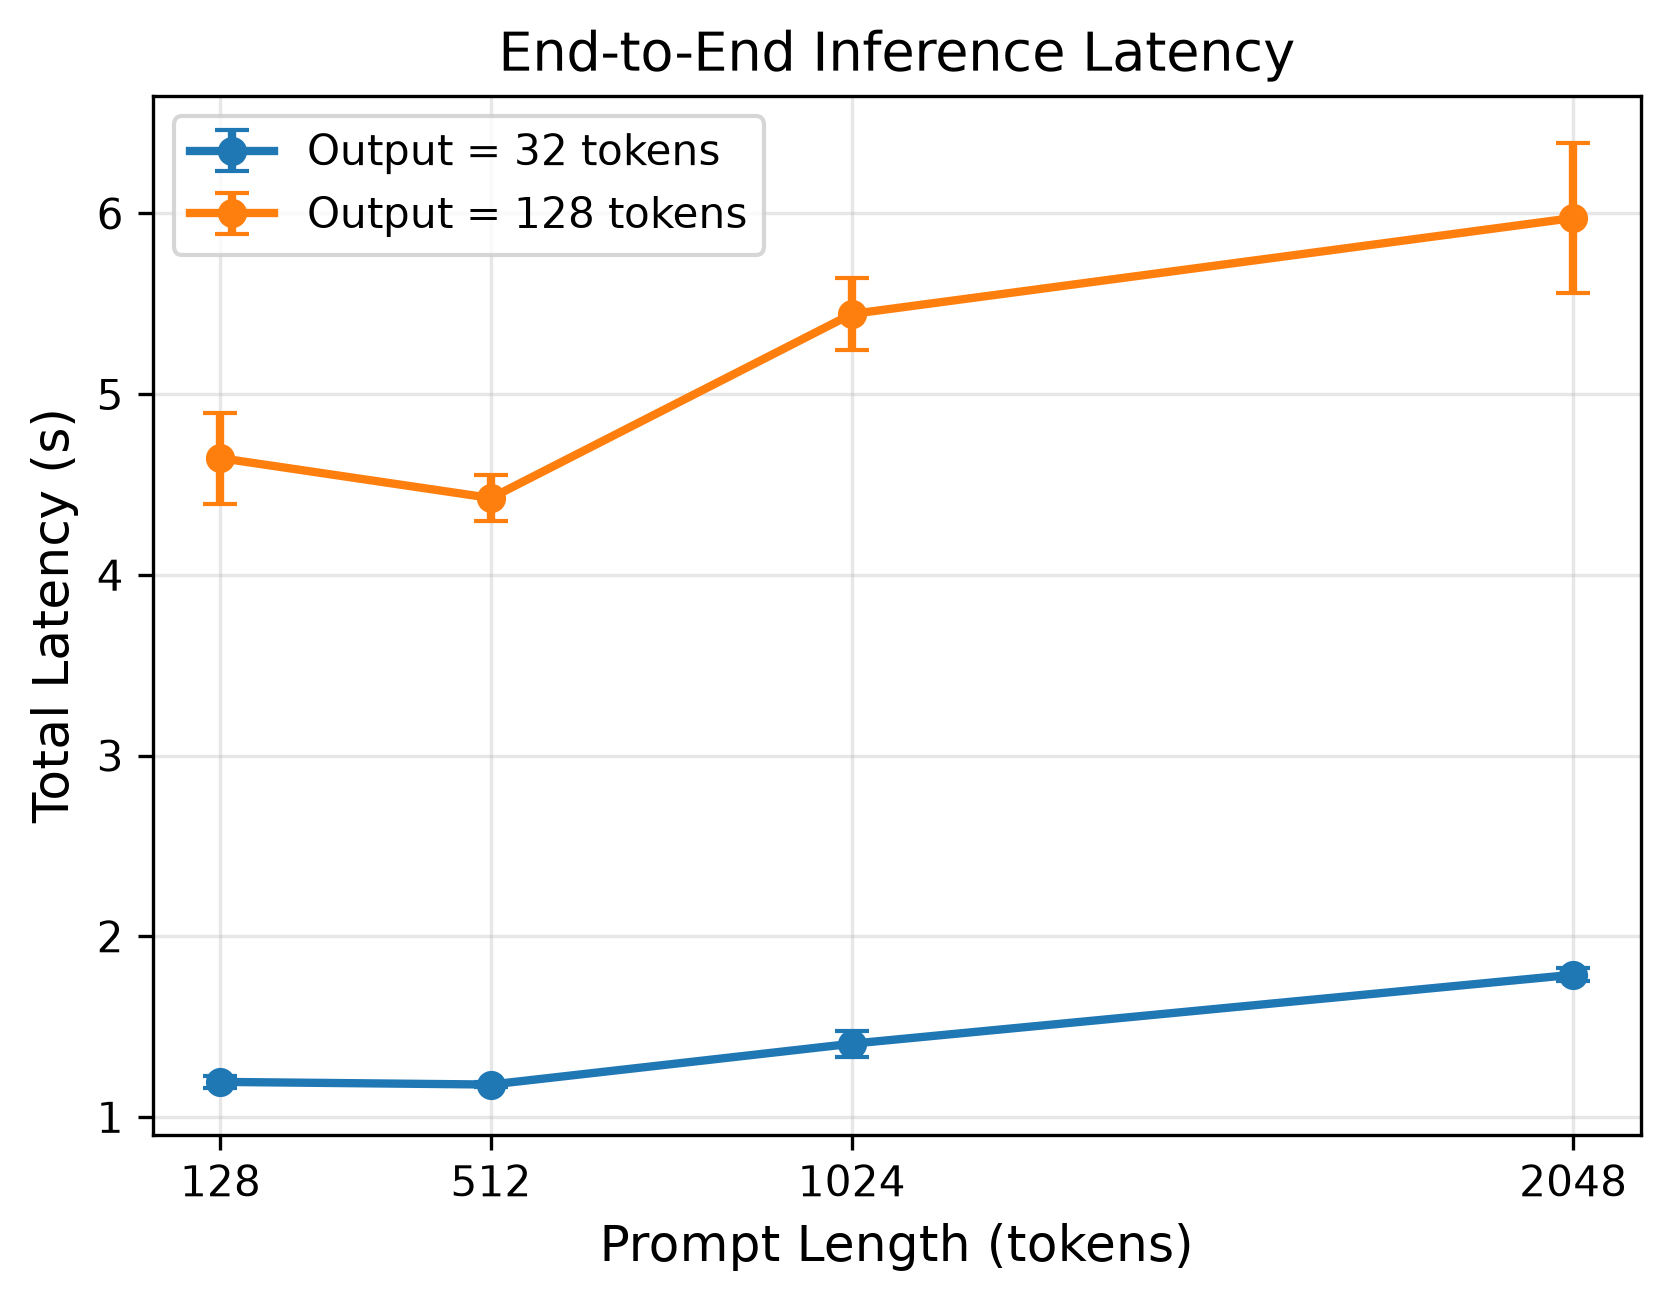
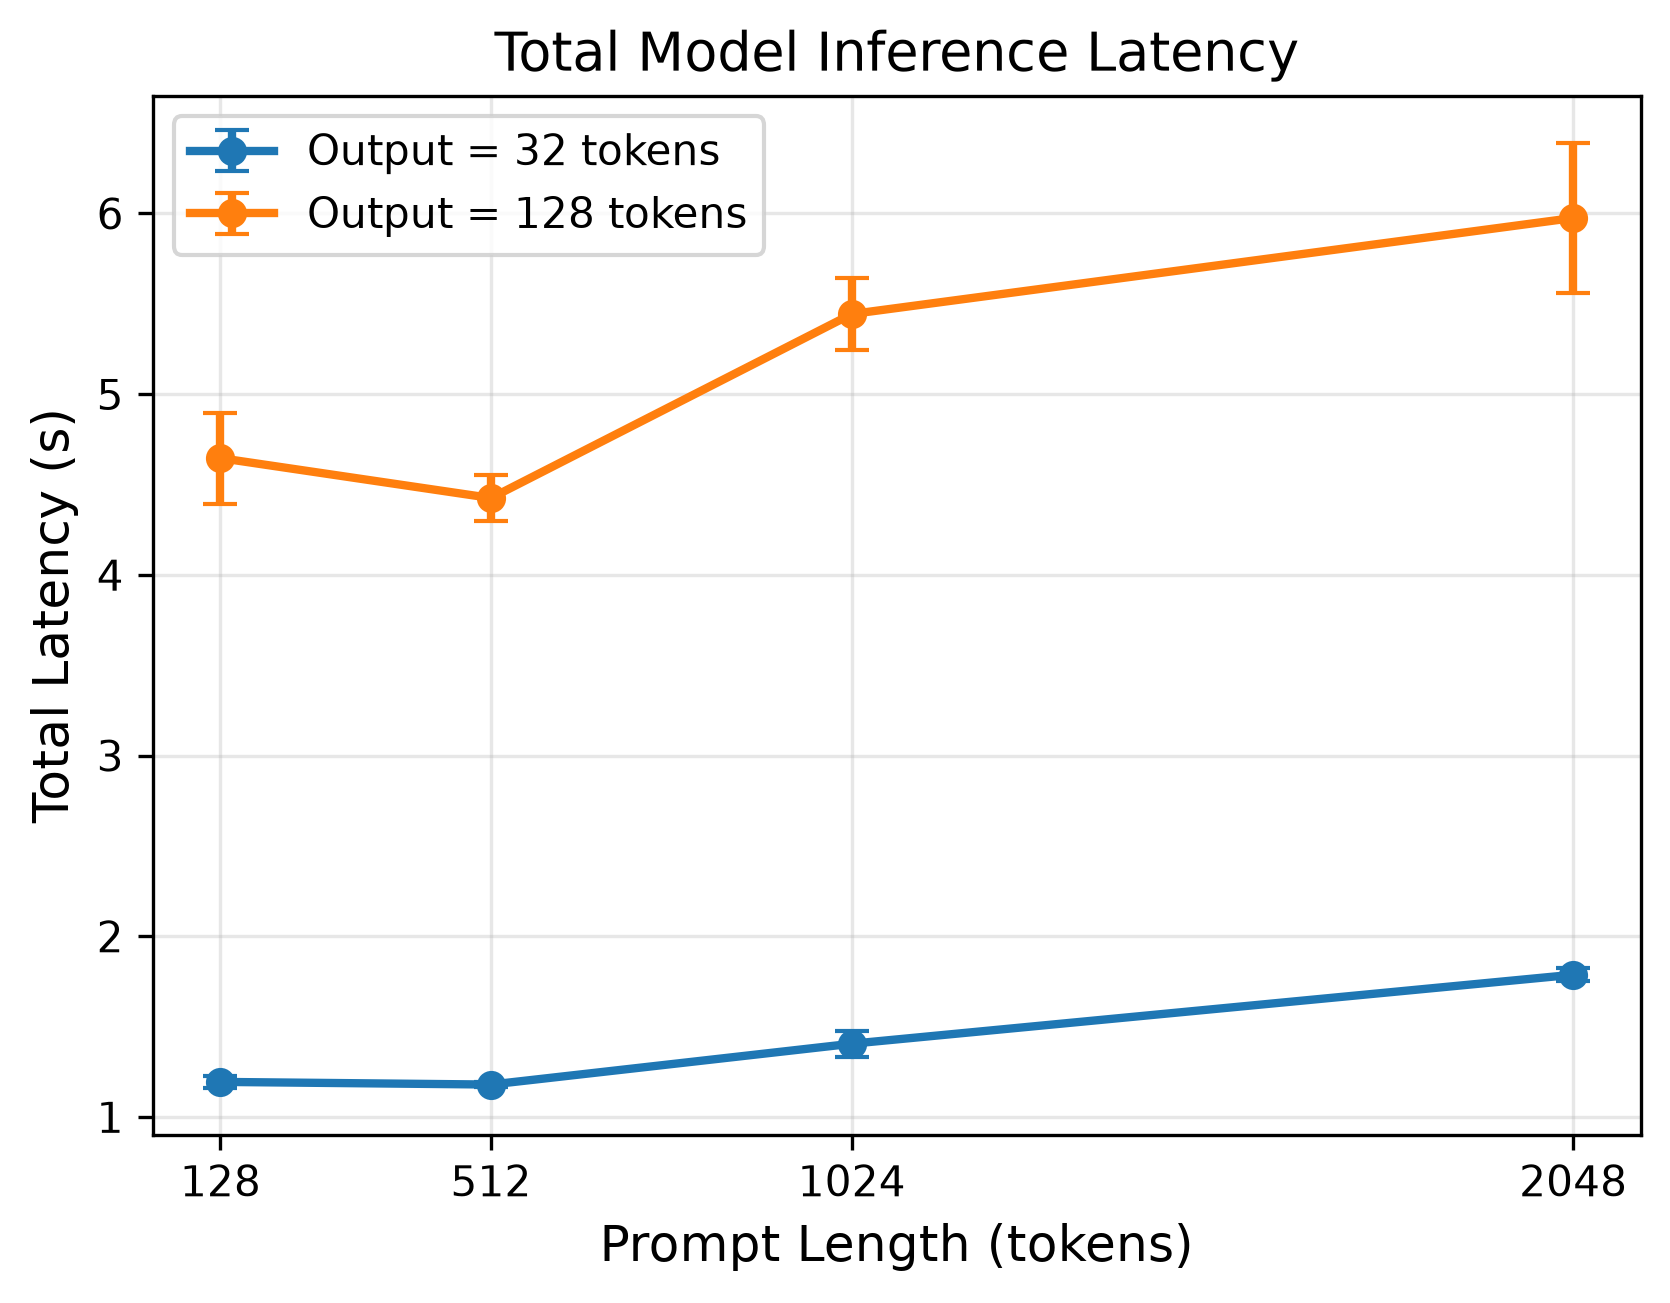
modify Result plotter.py

Changed region(s): [[0.2802, 0.0, 0.7784, 0.0614]]

diff --git a/Qwen3-4B Profiling Result Plotter.py b/Qwen3-4B Profiling Result Plotter.py
@@ -60,13 +60,24 @@ FIGURE_DIR = (
 
 
 # ============================================================
-# 3. Figure 저장 폴더 생성
+# 3. Figure 저장 폴더 생성 및 기존 그림 정리
 # ============================================================
 
 FIGURE_DIR.mkdir(
     parents=True,
     exist_ok=True,
 )
+
+# 실행할 때마다 이전에 생성된 그림이 남지 않도록 먼저 삭제함.
+# 현재 생성하는 PNG와 과거에 생성됐을 수 있는 PDF만 정리함.
+for figure_pattern in (
+    "*.png",
+    "*.pdf",
+):
+    for existing_figure in FIGURE_DIR.glob(
+        figure_pattern
+    ):
+        existing_figure.unlink()
 
 
 # ============================================================
@@ -531,7 +542,7 @@ ax.set_ylabel(
 )
 
 ax.set_title(
-    "End-to-End Inference Latency"
+    "Total Model Inference Latency"
 )
 
 ax.set_xticks(
@@ -624,7 +635,7 @@ ax.set_ylabel(
 )
 
 ax.set_title(
-    "Peak GPU Memory vs. Prompt Length"
+    "Peak PyTorch GPU Memory by Prompt Length"
 )
 
 ax.set_xticks(
